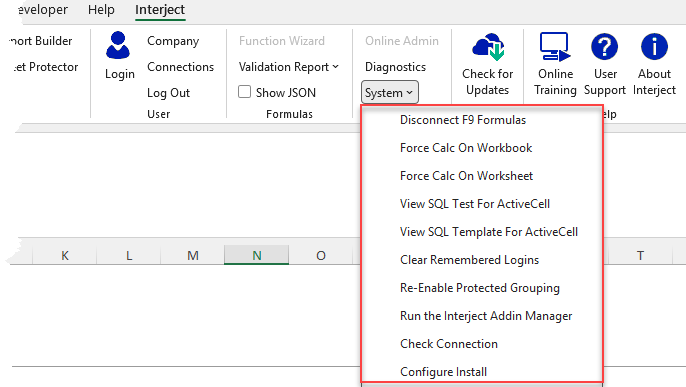
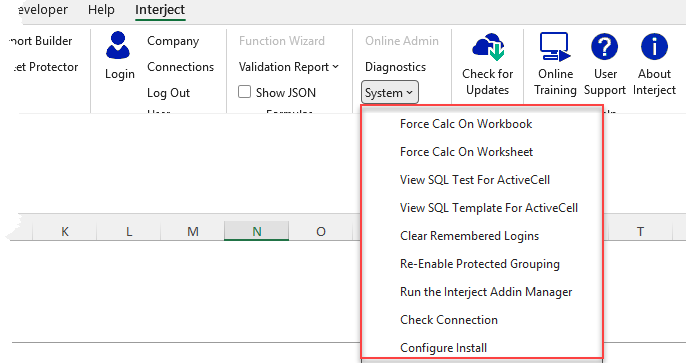
updated system menu

diff --git a/wGetStarted/INTERJECT-Ribbon-Menu-Items.md b/wGetStarted/INTERJECT-Ribbon-Menu-Items.md
@@ -299,16 +299,15 @@ The operation System contains a large number of options.
 
 | System Item | Description |
 | ----------- | ----------- |
-| Disconnect F9 Formulas | |
-| Force Calc On Workbook | Forces Excel to calculate all formulas in the Workbook. Similar to Excel's **Calculate Now** button in the Formulas tab on the Ribbon |
-| Force Calc On Worksheet | Forces Excel to calculate all Interject formulas in the Worksheet. Similar to Excel's **Calculate Sheet** button in the Formulas tab on the Ribbon |
-| View SQL Test For ActiveCell | Provides the SQL code that will be executed for the ActiveCell. The ActiveCell would be any of the [Data Pull](/wIndex/Data-Functions-Landing.html) or [Data Save](/wIndex/ReportSave.html) Formulas. <br> Copy this code into your development environment and execute it to see what would be produced based on current context of the spreadsheet. |
-| View SQL Template For ActiveCell | Will provide a starting point for creating new stored procedures. ReportSave will provide a template that can be used to save the data back. |
-| Clear Remembered Logings | |
-| Re-enable Protected Grouping | |
-| Initiate Session Controller | |
-| Check Connection | Allows user to test that the connection to a database can be established. To learn more, [click here.](/wPortal/Data-Connections.html) |
-| Configure Install | |
+| Force Calc On Workbook | Forces Excel to calculate all formulas in the Workbook. Similar to Excel's **Calculate Now** button in the Formulas tab on the Ribbon. |
+| Force Calc On Worksheet | Forces Excel to calculate all Interject formulas in the Worksheet. Similar to Excel's **Calculate Sheet** button in the Formulas tab on the Ribbon. |
+| View SQL Test For ActiveCell | Provides the SQL code that will be executed for the ActiveCell. The ActiveCell would be any of the [Data Pull](/wIndex/Data-Functions-Landing.html) or [Data Save](/wIndex/ReportSave.html) Formulas. <br> This code can be executed in your development environment to see what would be produced based on current context of the spreadsheet. |
+| View SQL Template For ActiveCell | Will provide sample code as a starting point for creating a new Stored Procedure. A ReportSave will provide a template that can be used to save the data back. |
+| Clear Remembered Logins | Removes all logins from the cache and the profiles removed from the Login manager |
+| Re-enable Protected Grouping | Excel does not remember when files are protected while enabling groups. Pull or save data to reenable or use this function. |
+| Run the Interject Addin Manager | Starts the Interject Addin Manager if it is not currently running |
+| Check Connection | Allows user to test if a connection to a database can be established. To learn more, [click here.](/wPortal/Data-Connections.html). |
+| Configure Install | Allows you to change your install configuration with a code |
 
 * * *
 

diff --git a/index.md b/index.md
@@ -2,7 +2,7 @@
 title: What Does Interject Do?
 layout: custom
 landing: True
-keywords: [ real world, use case, report library]
+keywords: [real world, use case, report library]
 description: Interject is a new method for connecting users to their data. It is a lightweight, enterprise-scalable platform bringing data to spreadsheets which can be used like customizable web applications 
 ---
 * * *
